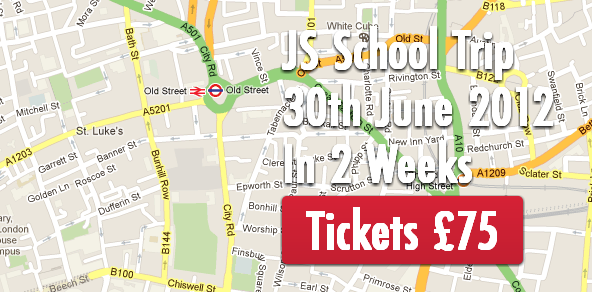
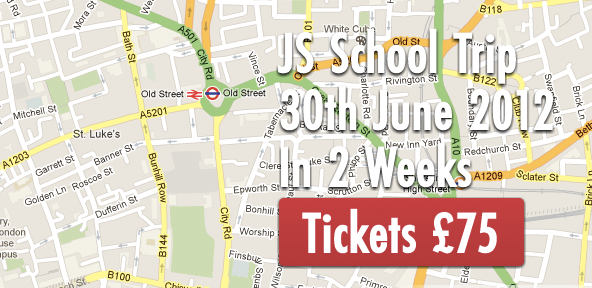
Updated image with smoothed version.

diff --git a/email-template/email-iteration-1/template-inlined.htm b/email-template/email-iteration-1/template-inlined.htm
@@ -56,7 +56,7 @@
 					<tr><td colspan="2" class="empty" width="600" height="16" style="border-collapse: collapse;border-spacing: 0;background-color: #223B5A;height: 16px;min-height: 16px;max-height: 16px;line-height: 16px;">&nbsp;</td></tr>
 					<tr><td colspan="2" width="600" style="border-collapse: collapse;border-spacing: 0;background-color: #223B5A;">
 						<p style="color: white;margin: 0 0 16px;padding: 0;font: normal 13px/24px Georgia, 'Times New Roman', serif;text-align: left;text-shadow: 0px 2px 4px #123031;">Hi folks, there is no evening meet-up for London JS this month as we are busy putting together the London JS School Trip. There is a great line-up of speakers and we hope to make it an awesome day. We've still got some tickets on sale. </p>
-						<p style="color: white;margin: 0 0 16px;padding: 0;font: normal 13px/24px Georgia, 'Times New Roman', serif;text-align: left;text-shadow: 0px 2px 4px #123031;">And we'd like to say a big thank you to our sponsor BlackBerry, it's worth checking out their WebWorks platform.</p>
+						<p style="color: white;margin: 0 0 16px;padding: 0;font: normal 13px/24px Georgia, 'Times New Roman', serif;text-align: left;text-shadow: 0px 2px 4px #123031;">And we'd like to say a big thank you to our sponsor BlackBerry, it's worth checking out their <a href="https://developer.blackberry.com/html5/" target="_blank" style="color: white;text-decoration: underline;">WebWorks</a> platform.</p>
 					</td></tr>
 					
 					<!--Buy button -->
@@ -82,10 +82,10 @@
 					
 					</td></tr>
 					<tr><td colspan="2" class="empty" width="600" height="16" style="border-collapse: collapse;border-spacing: 0;background-color: #223B5A;height: 16px;min-height: 16px;max-height: 16px;line-height: 16px;">&nbsp;</td></tr>
-					<tr><td colspan="2" width="600" height="300" style="border-collapse: collapse;border-spacing: 0;background-color: #223B5A;">
+					<tr><td colspan="2" width="600" height="306" style="border-collapse: collapse;border-spacing: 0;background-color: #223B5A;">
 					
 						<div class="wrapper" style="background-color: #E1E1E1;border: 4px solid white;min-height: 120px;box-shadow: 0 2px 4px 0 #123031;-o-box-shadow: 0 2px 4px 0 #123031;-ms-box-shadow: 0 2px 4px 0 #123031;-moz-box-shadow: 0 2px 4px 0 #123031;-webkit-box-shadow: 0 2px 4px 0 #123031;">
-							<a href="http://eventhandler.co.uk/events/londonjs-schooltrip" target="_blank"><img src="img/map.png" alt="" width="592" height="292" style="display: block;margin: 0;padding: 0;border: none;"></a>
+							<a href="http://eventhandler.co.uk/events/londonjs-schooltrip" target="_blank"><img src="img/map.png" alt="" width="592" height="288" style="display: block;margin: 0;padding: 0;border: none;"></a>
 						</div>
 					
 					</td></tr>

diff --git a/email-template/email-iteration-1/template.htm b/email-template/email-iteration-1/template.htm
@@ -48,6 +48,10 @@
 				text-align: left;
 				text-shadow: 0px 2px 4px #123031;
 			}
+			#eventHandlerTable p a {
+				color: white;
+				text-decoration: underline;
+			}
 			#eventHandlerTable img { display: block; margin: 0; padding: 0; border: none; }
 		
 			#eventHandlerTable td.whiteBackground,
@@ -166,7 +170,7 @@
 					<tr><td colspan="2" class="empty" width="600" height="16">&nbsp;</td></tr>
 					<tr><td colspan="2" width="600">
 						<p>Hi folks, there is no evening meet-up for London JS this month as we are busy putting together the London JS School Trip. There is a great line-up of speakers and we hope to make it an awesome day. We've still got some tickets on sale. </p>
-						<p>And we'd like to say a big thank you to our sponsor BlackBerry, it's worth checking out their WebWorks platform.</p>
+						<p>And we'd like to say a big thank you to our sponsor BlackBerry, it's worth checking out their <a href="https://developer.blackberry.com/html5/" target="_blank">WebWorks</a> platform.</p>
 					</td></tr>
 					
 					<!--Buy button -->
@@ -192,10 +196,10 @@
 					
 					</td></tr>
 					<tr><td colspan="2" class="empty" width="600" height="16">&nbsp;</td></tr>
-					<tr><td colspan="2" width="600" height="300">
+					<tr><td colspan="2" width="600" height="306">
 					
 						<div class="wrapper">
-							<a href="http://eventhandler.co.uk/events/londonjs-schooltrip" target="_blank"><img src="img/map.png" alt="" width="592" height="292"></a>
+							<a href="http://eventhandler.co.uk/events/londonjs-schooltrip" target="_blank"><img src="img/map.png" alt="" width="592" height="288"></a>
 						</div>
 					
 					</td></tr>
